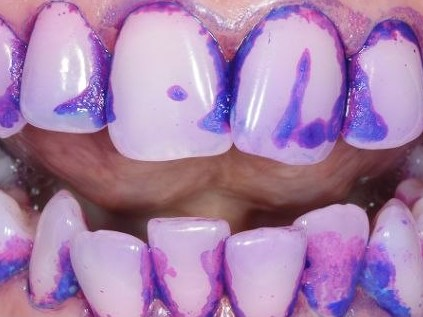
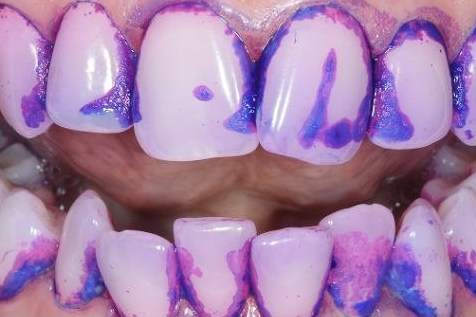
Регулярная гигиена: 7 шагов с фото клиники, фото экрана камеры, понятный текст о записи

diff --git a/regulyarnaya-gigiena/index.html b/regulyarnaya-gigiena/index.html
@@ -11,12 +11,12 @@
 <link href="https://fonts.googleapis.com/css2?family=Inter:wght@400;500;600;700;800&display=swap" rel="stylesheet">
 <style>:root{color-scheme:light;box-sizing:border-box;padding-top:env(safe-area-inset-top,0px);padding-bottom:env(safe-area-inset-bottom,0px)}html{scroll-padding-top:env(safe-area-inset-top,0px)}body{margin:0;padding:0;font:14px -apple-system,BlinkMacSystemFont,sans-serif;background:#fff;color:#000}img{max-width:100%}[hidden]:not([hidden=until-found i]){display:none!important}</style>
 <link rel="stylesheet" href="assets/css/style.css?v=1">
-<link rel="stylesheet" href="assets/css/regular.css?v=8">
+<link rel="stylesheet" href="assets/css/regular.css?v=9">
 <script src="assets/js/main.js?v=3"></script>
 </head>
 <body>
 <div class="proto" role="note">
-  <p><b>Прототип.</b> Рисунки временные&nbsp;— заменим реальными кадрами клиники: осмотр, полировка пломб, рекомендации. Шрифт временный&nbsp;— для&nbsp;фирменных Akrobat Bold и&nbsp;Google Sans нужны файлы шрифтов.</p>
+  <p><b>Прототип.</b> Рисунки временные&nbsp;— заменим реальными кадрами клиники: полировка пломб, рекомендации. Шрифт временный&nbsp;— для&nbsp;фирменных Akrobat Bold и&nbsp;Google Sans нужны файлы шрифтов.</p>
 </div>
 <main>
     <!-- 1. Первый экран -->
@@ -175,77 +175,80 @@
       <div class="container">
         <h2 class="h2">Как проходит визит в&nbsp;Денталь Профи</h2>
         <p class="lead">Не&nbsp;просто чистка: осмотр, внимание к&nbsp;деталям и&nbsp;проверка результата.</p>
-        <ol class="film film--6">
+        <ol class="film film--7">
           <li class="film__item">
             <div class="film__frame">
               <figure class="film__media">
-                <img class="film__img" src="assets/img/frame-exam.svg" width="400" height="300" alt="зубы в рамке видоискателя и фотокамера" loading="lazy" decoding="async">
-                <figcaption class="film__tag">Иллюстрация</figcaption>
+                <img class="film__img" src="assets/img/photo-shoot.jpg" width="800" height="533" alt="врач фотографирует зубы пациента перед гигиеной" loading="lazy" decoding="async">
               </figure>
             </div>
             <span class="film__num">01</span>
             <h3 class="film__title">Осматриваем зубы и&nbsp;дёсны</h3>
             <p class="film__text">Оцениваем состояние и&nbsp;фотографируем зубы до&nbsp;гигиены.</p>
-          </li>
-          <li class="film__item">
+          </li>          <li class="film__item">
             <div class="film__frame">
               <figure class="film__media">
-                <img class="film__img" src="assets/img/photo-stain.jpg" width="423" height="317" alt="зубы после нанесения индикатора: налёт окрашен в фиолетовый цвет" loading="lazy" decoding="async">
+                <img class="film__img" src="assets/img/photo-stain.jpg" width="476" height="317" alt="зубы после нанесения индикатора: налёт окрашен в фиолетовый цвет" loading="lazy" decoding="async">
               </figure>
             </div>
             <span class="film__num">02</span>
             <h3 class="film__title">Окрашиваем налёт</h3>
             <p class="film__text">Индикатор показывает участки, которым нужно внимание.</p>
-          </li>
-          <li class="film__item">
+          </li>          <li class="film__item">
             <div class="film__frame">
               <figure class="film__media">
-                <img class="film__img" src="assets/img/photo-loupes.jpg" width="1200" height="900" alt="специалист в бинокулярах проводит профессиональную гигиену вместе с ассистентом" loading="lazy" decoding="async">
+                <img class="film__img" src="assets/img/photo-ems.jpg" width="600" height="400" alt="специалист с порошком EMS и наконечником для воздушно-порошкового очищения" loading="lazy" decoding="async">
               </figure>
             </div>
             <span class="film__num">03</span>
+            <h3 class="film__title">Подбираем способ очищения</h3>
+            <p class="film__text">Используем профессиональные порошки EMS и&nbsp;подбираем их под&nbsp;зубы, пломбы и&nbsp;конструкции.</p>
+          </li>          <li class="film__item">
+            <div class="film__frame">
+              <figure class="film__media">
+                <img class="film__img" src="assets/img/photo-loupes.jpg" width="1500" height="1000" alt="специалист в бинокулярах проводит профессиональную гигиену вместе с ассистентом" loading="lazy" decoding="async">
+              </figure>
+            </div>
+            <span class="film__num">04</span>
             <h3 class="film__title">Удаляем зубные отложения</h3>
-            <p class="film__text">Работаем в&nbsp;бинокулярах и&nbsp;используем профессиональные порошки EMS. Способ подбираем под&nbsp;зубы, пломбы и&nbsp;конструкции.</p>
-          </li>
-          <li class="film__item">
+            <p class="film__text">Работаем в&nbsp;бинокулярах&nbsp;— так лучше видны отложения и&nbsp;детали пломб.</p>
+          </li>          <li class="film__item">
             <div class="film__frame">
               <figure class="film__media">
                 <img class="film__img" src="assets/img/frame-polish.svg" width="400" height="300" alt="полировка пломбы резиновой чашечкой" loading="lazy" decoding="async">
                 <figcaption class="film__tag">Иллюстрация</figcaption>
               </figure>
             </div>
-            <span class="film__num">04</span>
+            <span class="film__num">05</span>
             <h3 class="film__title">Полируем пломбы</h3>
             <p class="film__text">Там, где это нужно. Если заметим дефект, объясним, что проверить или&nbsp;лечить отдельно.</p>
-          </li>
-          <li class="film__item">
+          </li>          <li class="film__item">
             <div class="film__frame">
               <figure class="film__media">
-                <img class="film__img" src="assets/img/photo-clean.jpg" width="423" height="317" alt="те же зубы после профессиональной гигиены" loading="lazy" decoding="async">
+                <img class="film__img" src="assets/img/photo-clean.jpg" width="476" height="317" alt="те же зубы после профессиональной гигиены" loading="lazy" decoding="async">
               </figure>
             </div>
-            <span class="film__num">05</span>
+            <span class="film__num">06</span>
             <h3 class="film__title">Проверяем результат</h3>
             <p class="film__text">Окрашиваем ещё раз, при&nbsp;необходимости дочищаем и&nbsp;фотографируем зубы после.</p>
-          </li>
-          <li class="film__item">
+          </li>          <li class="film__item">
             <div class="film__frame">
               <figure class="film__media">
                 <img class="film__img" src="assets/img/frame-home.svg" width="400" height="300" alt="зубная щётка, ёршик и календарь с отмеченной датой" loading="lazy" decoding="async">
                 <figcaption class="film__tag">Иллюстрация</figcaption>
               </figure>
             </div>
-            <span class="film__num">06</span>
+            <span class="film__num">07</span>
             <h3 class="film__title">Даём рекомендации</h3>
             <p class="film__text">Показываем, как ухаживать дома, и&nbsp;называем срок следующего визита.</p>
-          </li>
-        </ol>
+          </li>        </ol>
       </div>
     </section>
 
     <!-- 4. Что вы получаете -->
     <section class="section section--navy" id="after">
-      <div class="container">
+      <div class="container after">
+        <div class="after__main">
         <h2 class="h2">После визита у&nbsp;вас будет</h2>
         <ul class="gains">
           <li class="gains__item">
@@ -265,6 +268,8 @@
             <p class="gains__text">Если нужно лечение&nbsp;— объясним причину и&nbsp;следующий шаг</p>
           </li>
         </ul>
+        </div>
+        <img class="after__img" src="assets/img/photo-screen.jpg" width="500" height="500" alt="на экране фотоаппарата — снимок зубов пациента" loading="lazy" decoding="async">
       </div>
     </section>
 
@@ -338,7 +343,7 @@
           <div class="visit__head">
             <div class="visit__intro">
               <h2 class="h2">Забота о&nbsp;зубах продолжается между визитами</h2>
-              <p class="lead">Поможем уточнить срок, состав приёма и&nbsp;стоимость и&nbsp;подберём удобное время.</p>
+              <p class="lead">Подскажем, когда лучше прийти, расскажем, что входит в&nbsp;приём, и&nbsp;подберём удобное время.</p>
             </div>
             <img class="visit__img" src="assets/img/often-calendar.svg" width="320" height="240" alt="" loading="lazy" decoding="async">
           </div>

diff --git a/regulyarnaya-gigiena/assets/css/regular.css b/regulyarnaya-gigiena/assets/css/regular.css
@@ -100,8 +100,7 @@
   margin-top: 40px;
 }
 
-.film--6 {
-  grid-template-columns: repeat(3, minmax(0, 1fr));
+.film--7 {
   gap: 44px 28px;
 }
 
@@ -117,7 +116,7 @@
   position: relative;
   margin: 0;
   overflow: hidden;
-  aspect-ratio: 4 / 3;
+  aspect-ratio: 3 / 2;
   border-radius: var(--radius-card);
   background: var(--white);
 }
@@ -156,7 +155,7 @@
   box-shadow: 0 0 0 5px var(--bg-gray);
 }
 
-.film--6 .film__item:nth-child(3n) .film__frame::after {
+.film--7 .film__item:nth-child(4n) .film__frame::after {
   display: none;
 }
 
@@ -184,7 +183,30 @@
   line-height: 24px;
 }
 
-/* ---------- После визита: четыре плитки со значками в тёмной секции ---------- */
+/* ---------- После визита: четыре плитки со значками и фото экрана камеры ---------- */
+.after {
+  display: grid;
+  grid-template-columns: minmax(0, 1fr) minmax(0, 420px);
+  column-gap: 56px;
+  align-items: center;
+}
+
+.after__main {
+  min-width: 0;
+}
+
+.after .gains {
+  grid-template-columns: repeat(2, minmax(0, 1fr));
+}
+
+.after__img {
+  width: 100%;
+  height: auto;
+  aspect-ratio: 1 / 1;
+  object-fit: cover;
+  border-radius: var(--radius-card);
+}
+
 .gains {
   display: grid;
   grid-template-columns: repeat(4, minmax(0, 1fr));
@@ -582,14 +604,21 @@
   }
 
   .film,
-  .film--6 {
+  .film--7 {
     grid-template-columns: repeat(2, minmax(0, 1fr));
     gap: 32px 20px;
     margin-top: 28px;
   }
 
-  .film--6 .film__item:nth-child(3) .film__frame::after {
-    display: block;
+  /* после визита: фото под плитками */
+  .after {
+    grid-template-columns: minmax(0, 1fr);
+    row-gap: 24px;
+  }
+
+  .after__img {
+    max-width: 520px;
+    aspect-ratio: 16 / 10;
   }
 
   .film__item:nth-child(2n) .film__frame::after {
@@ -795,7 +824,7 @@
 
   /* шаги: картинка слева от номера и заголовка, строка текста рядом */
   .film,
-  .film--6 {
+  .film--7 {
     grid-template-columns: minmax(0, 1fr);
     gap: 24px;
     margin-top: 20px;
@@ -814,9 +843,16 @@
     align-self: center;
   }
 
-  .film__item .film__frame::after,
-  .film--6 .film__item:nth-child(3) .film__frame::after {
+  .film__item .film__frame::after {
     display: none;
+  }
+
+  .after .gains {
+    grid-template-columns: minmax(0, 1fr);
+  }
+
+  .after__img {
+    max-width: none;
   }
 
   .film__media {
